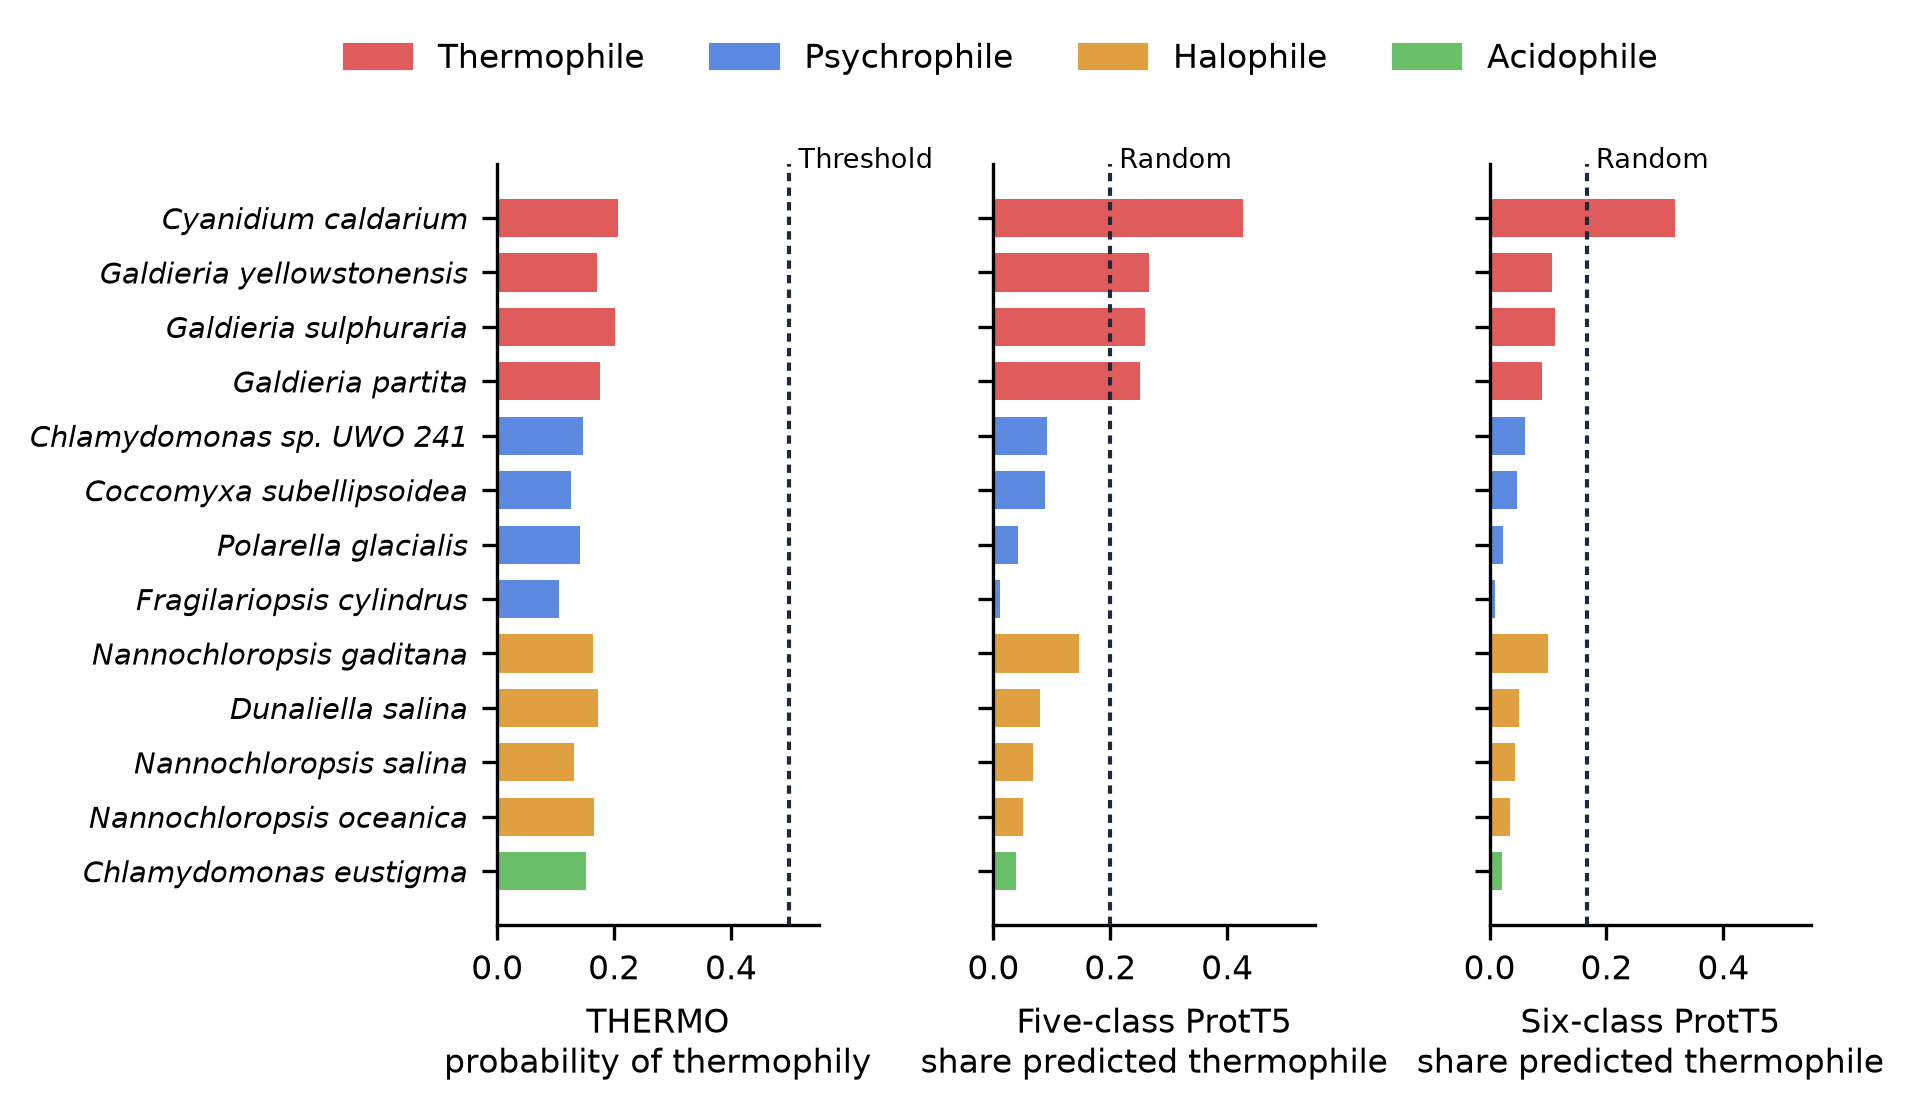
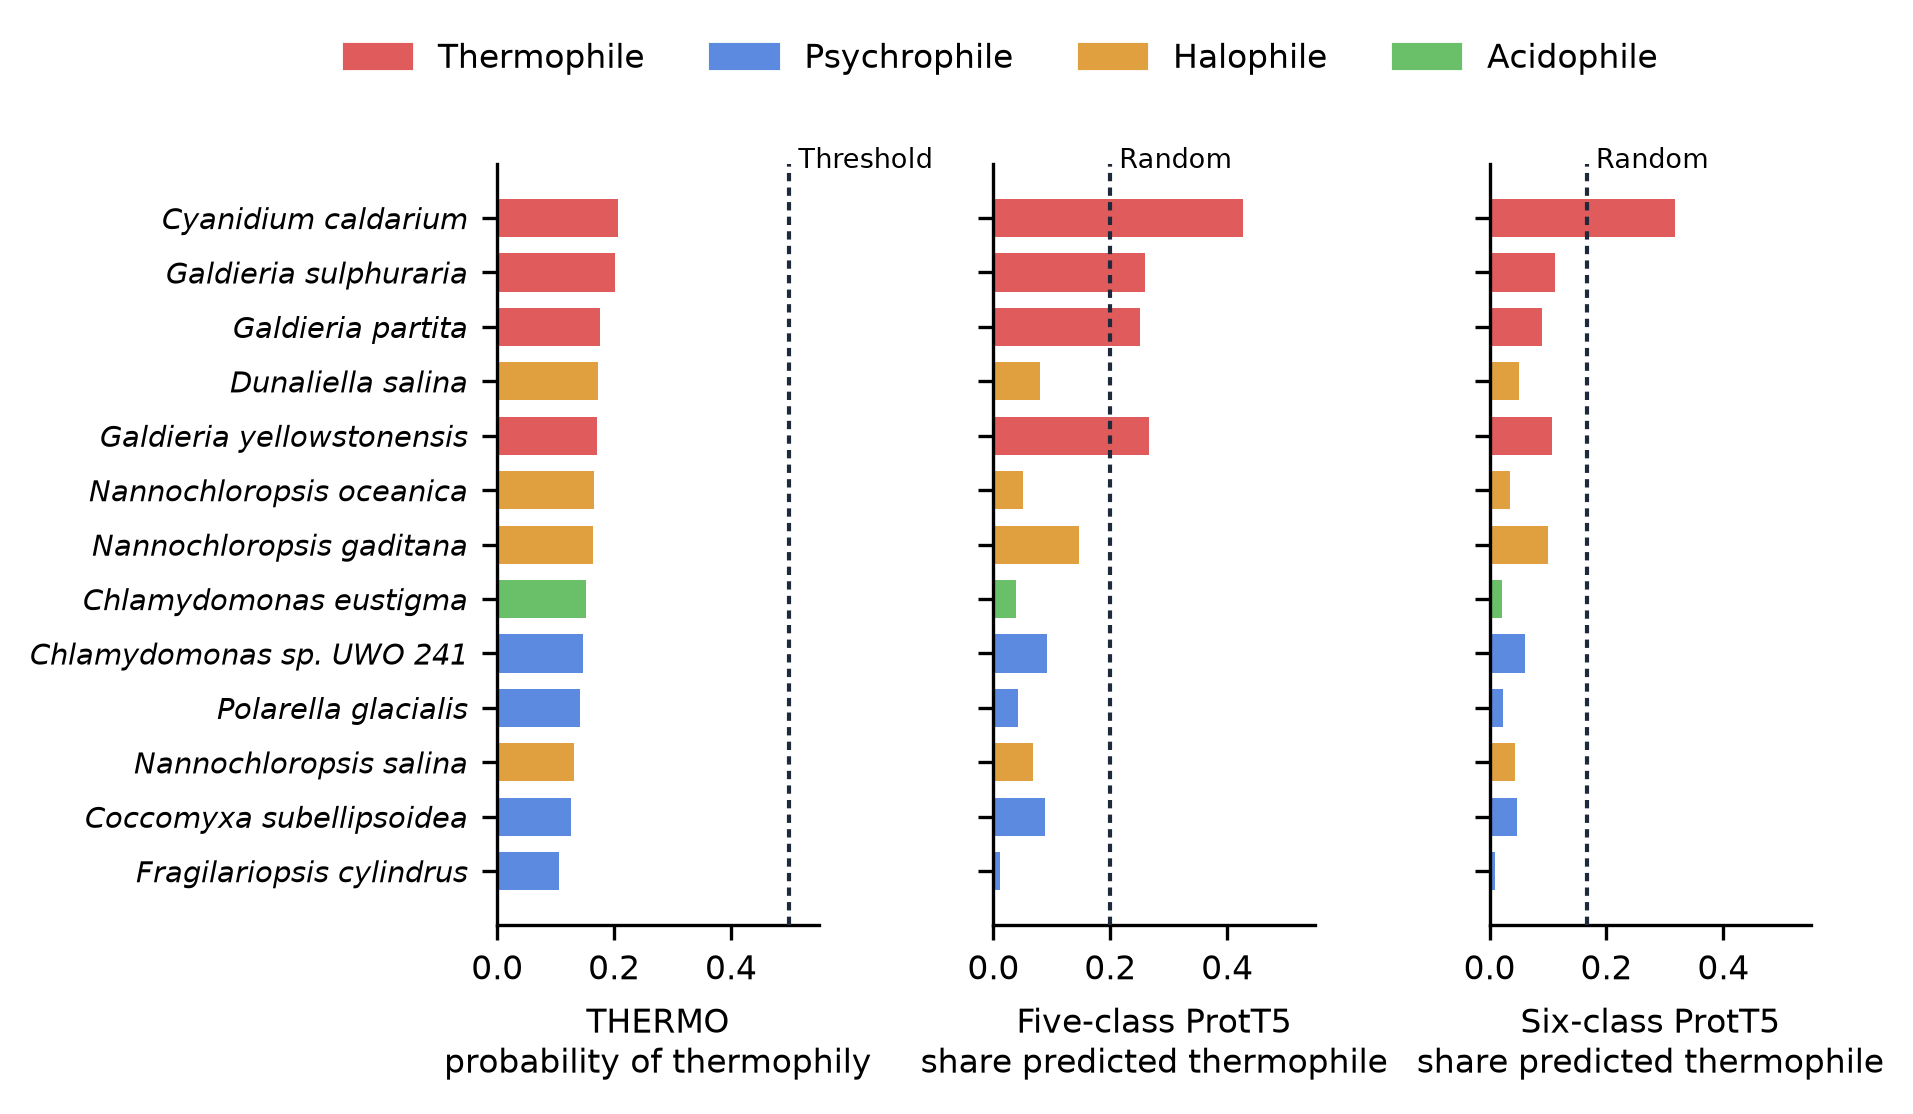
Order species in algae thermophily figure by THERMO probability

diff --git a/scripts/plotting/make_thesis_figures.py b/scripts/plotting/make_thesis_figures.py
@@ -774,8 +774,8 @@ def fig_algae_thermophily():
     # Thermophily per algal species: THERMO probability per proteome, and the share of proteins assigned to the
     # thermophile class by the five-class and six-class ProtT5 models, each with its decision threshold or random level
     r = json.load(open(RESULTS / "algae_thermophile_per_species_result.json"))
-    order = {c: i for i, c in enumerate(ALGAE_CLASSES)}
-    sp = sorted(r["species"], key=lambda s: (order[s["broad_class"]], -s["fiveclass_thermophile_share"]))
+    # species ordered by THERMO probability, highest at the top (supervisor's request)
+    sp = sorted(r["species"], key=lambda s: -s["thermo_probability"])
     y = np.arange(len(sp))[::-1]
     panels = [("thermo_probability", "THERMO\nprobability of thermophily", 0.5, "Threshold"),
               ("fiveclass_thermophile_share", "Five-class ProtT5\nshare predicted thermophile", r["random_fiveclass"], "Random"),
